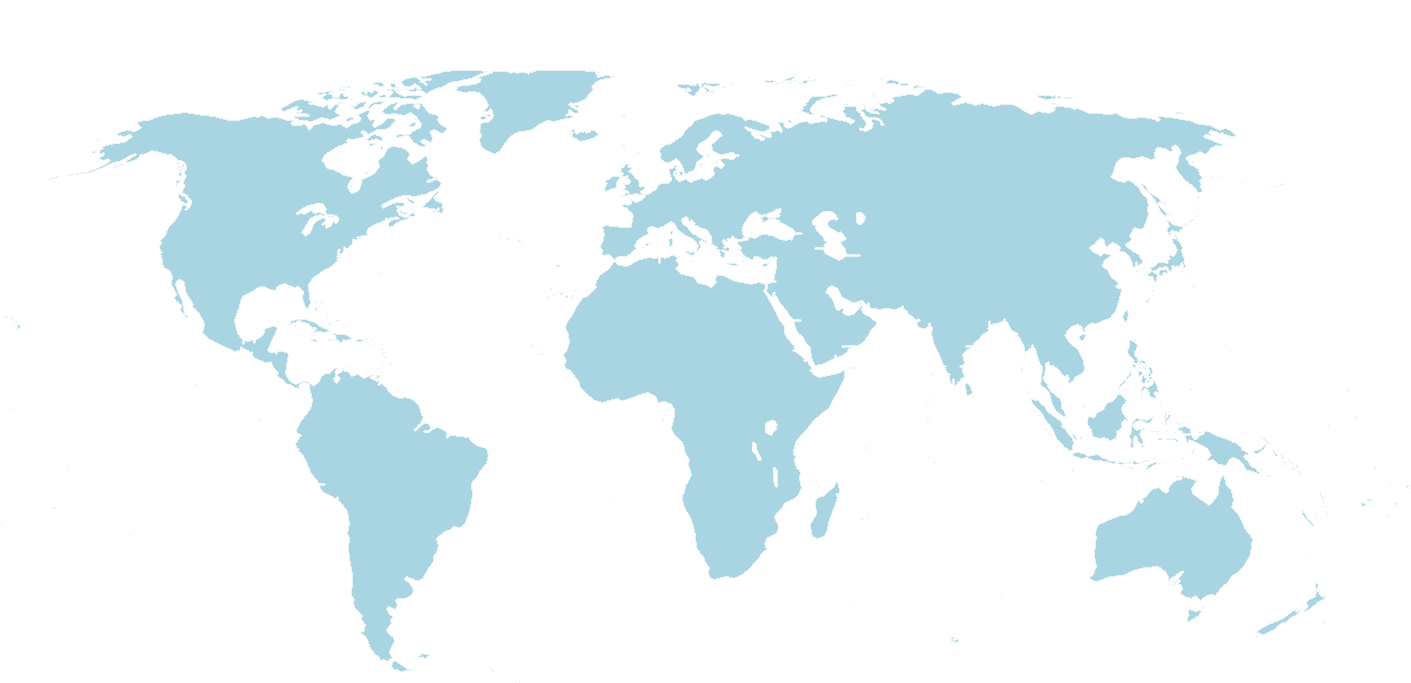
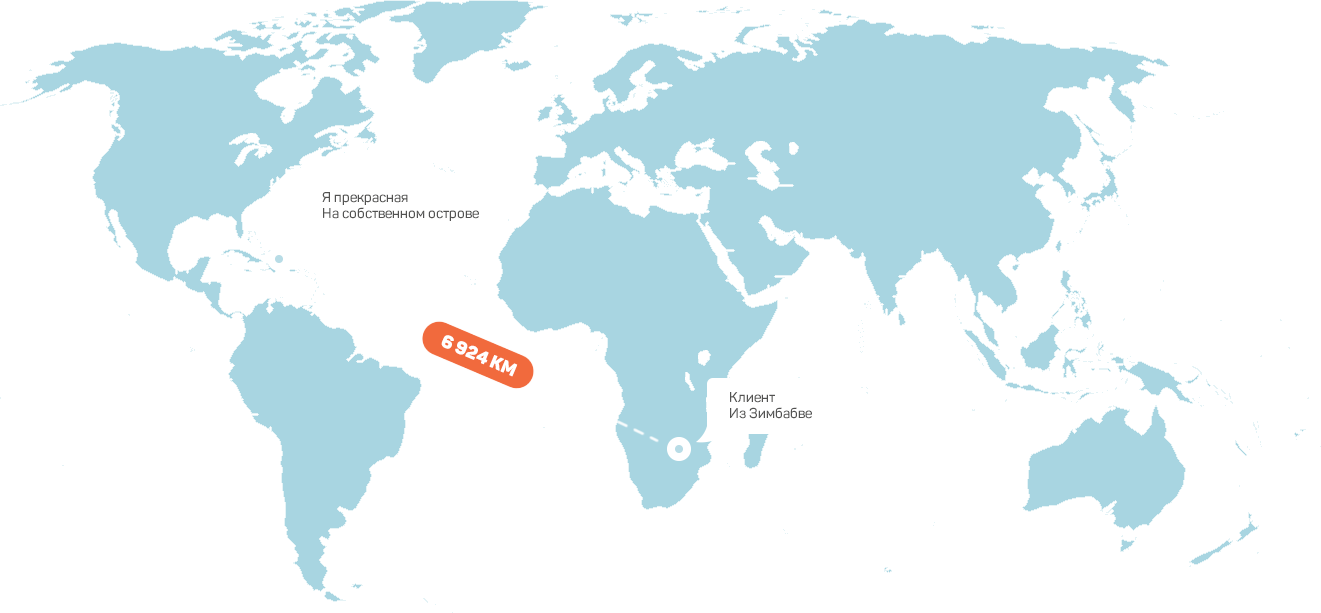
portfolio-item bottom

diff --git a/css/main.css b/css/main.css
@@ -1735,7 +1735,7 @@ li:hover .portfolio__like:after{
 
 /* --------------- list-works --------------- */
 .list-works{
-    padding-bottom: 17px;
+    padding-bottom: 5px;
 }
 .list-works .site__title{
     font-family: "panton-semibold", sans-serif;
@@ -1751,6 +1751,7 @@ li:hover .portfolio__like:after{
     max-width: 320px;
     position: relative;
     margin-left: 41px;
+    margin-bottom: 31px;
 }
 .list-works__services div{
     position: absolute;
@@ -1880,6 +1881,62 @@ li:hover .portfolio__like:after{
 }
 .list-works__list div > span:before {
     margin-top: 6px;
+}
+.list-works__menu{
+    display: block;
+    position: relative;
+    text-align: center;
+    margin-bottom: 20px;
+}
+ul.list-works__menu li {
+    position: relative;
+    display: inline-block;
+}
+input[type="radio"] {
+    display: none;
+}
+input[type="radio"] + label > .list-works__tab {
+    font-family: 'panton-extrabold','sans-serif';
+    position: relative;
+    display: inline-block;
+    z-index: 3;
+    padding: 6px 7px;
+    border-radius: 30px;
+    font-size: 7px;
+    text-decoration: underline;
+}
+input[type="radio"]:checked + label > .list-works__tab {
+    background: #fff;
+    text-decoration: none;
+}
+.list-works__show {
+    max-width: 1145px;
+    height: 580px;
+    margin: 0 auto;
+}
+.list-works__show img{
+    width: 95%;
+    height: 100%;
+}
+.message-button{
+    content: "";
+    position: absolute;
+    top: -53px;
+    left: 19px;
+    width: 50px;
+    height: 50px;
+    box-shadow: 0px 0px 12px #525251;
+    border-radius: 50%;
+    background: #eb654f url("../img/massage-icon.png") no-repeat center;
+    background-size: 18px 14.5px;
+}
+.message-button:hover{
+    opacity: 0.7;
+}
+h3.list-works__show-title{
+    padding: initial;
+    text-align: center;
+    margin-bottom: 23px;
 }
 /* --------------- list-works__slider --------------- */
 .list-works__slider-wrap span {
@@ -2140,7 +2197,7 @@ span.swiper-pagination-bullet-active:hover{
     }
     /* --------------- /menu --------------- */
 
-    /* --------------- /menu --------------- */
+    /* --------------- list-works --------------- */
     .list-works__select {
         width: 341px;
         margin: 50px auto 20px;
@@ -2204,6 +2261,13 @@ span.swiper-pagination-bullet-active:hover{
         margin-bottom: 38px;
         padding-left: 113px;
     }
+    h3.list-works__show-title {
+        padding: initial;
+        margin-bottom: 46px;
+    }
+    .list-works__menu {
+        margin-bottom: 37px;
+    }
     .list-works__slider-wrap {
         padding-top: 114px;
         padding-left: 96px;
@@ -2235,6 +2299,7 @@ span.swiper-pagination-bullet-active:hover{
     .list-works__services {
         max-width: 640px;
         margin-left: 82px;
+        margin-bottom: 64px;
     }
     .list-works__services h4 {
         font-size: 20px;
@@ -2279,7 +2344,24 @@ span.swiper-pagination-bullet-active:hover{
     .list-works__like .portfolio__like:after {
         background-size: 67px 61px;
     }
-    /* --------------- /menu --------------- */
+    .list-works__show{
+        height: 1162px;
+    }
+    input[type="radio"] + label > .list-works__tab {
+        padding: 13px 13px;
+        font-size: 14px;
+    }
+    .message-button {
+        top: -107px;
+        left: 38px;
+        width: 100px;
+        height: 100px;
+        background-size: 36px 29px;
+    }
+    .list-works {
+        padding-bottom: 14px;
+    }
+    /* --------------- /list-works --------------- */
 
     /* --------------- logo --------------- */
     .logo {
@@ -3665,8 +3747,21 @@ span.swiper-pagination-bullet-active:hover{
     .list-works__services div {
         bottom: 51px;
     }
-
-
+    .list-works__show {
+        height: 2140px;
+    }
+    .message-button{
+        display: none;
+    }
+    .list-works__map{
+        position: relative;
+    }
+    .list-works__map{
+        width: 100%;
+        height: 613px;
+        background: url("../img/bg-map.png") no-repeat center;
+        background-size: contain;
+    }
     /* --------------- /portfolio --------------- */
 
     /* ----------------- skills ----------------- */

diff --git a/portfolio-item.html b/portfolio-item.html
@@ -137,14 +137,62 @@
                 </div>
                 <!-- /site__wrap -->
 
+                <ul class="list-works__menu">
+                    <li>
+                        <input id="choice-a" type="radio" name="g" checked>
+                        <label for="choice-a">
+                            <span class="list-works__tab">АНАЛИТИКА</span>
+                        </label>
+                    </li>
+                    <li>
+                        <input id="choice-b" type="radio" name="g">
+                        <label for="choice-b">
+                            <span class="list-works__tab">ПРОТОТИПЫ</span>
+                        </label>
+                    </li>
+                    <li>
+                        <input id="choice-c" type="radio" name="g">
+                        <label for="choice-c">
+                            <span class="list-works__tab">ДИЗАЙН</span>
+                        </label>
+                    </li>
+                    <li>
+                        <input id="choice-d" type="radio" name="g">
+                        <label for="choice-d">
+                            <span class="list-works__tab">ТЕСТИРОВАНИЕ</span>
+                        </label>
+                    </li>
+                    <li>
+                        <input id="choice-e" type="radio" name="g">
+                        <label for="choice-e">
+                            <span class="list-works__tab">ПОДДЕРЖКА</span>
+                        </label>
+                    </li>
+                </ul>
+                <h3 class="list-works__show-title">Проводится аудит существующего сайта</h3>
+                <div class="list-works__show">
+                    <img src="pic/img-003.png" alt="site-show">
+                </div>
+
+                <!-- list-works__map -->
+                <div class="list-works__map">
+
+                </div>
+                <!-- /list-works__map -->
+
             </div>
             <!-- /list-works -->
+
 
             <!-- reviews -->
             <div class="reviews">
 
                 <!-- site__wrap -->
                 <div class="site__wrap">
+
+                    <!-- message-button -->
+                    <a href="#" class="message-button"></a>
+                    <!-- /message-button -->
 
                     <!-- site__title -->
                     <h2 class="site__title">отзывы</h2>
